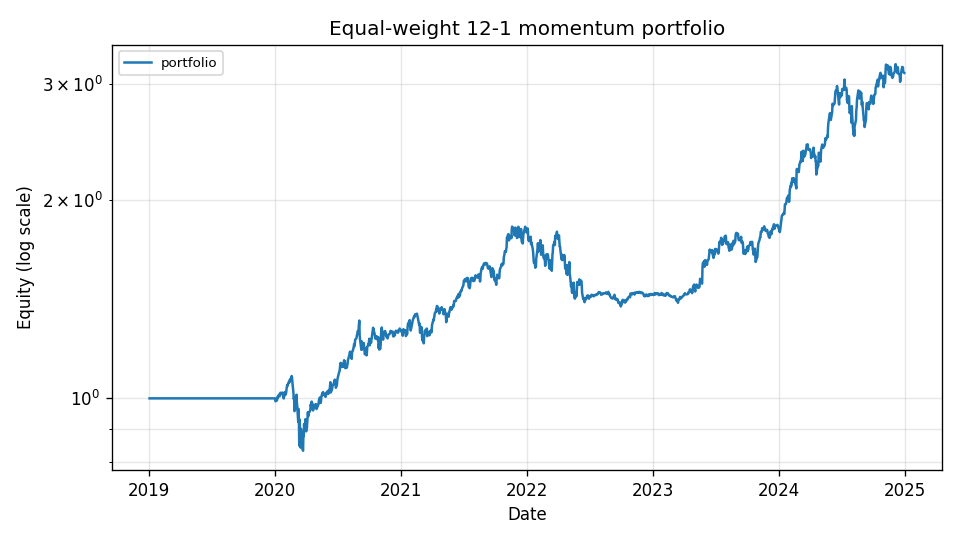
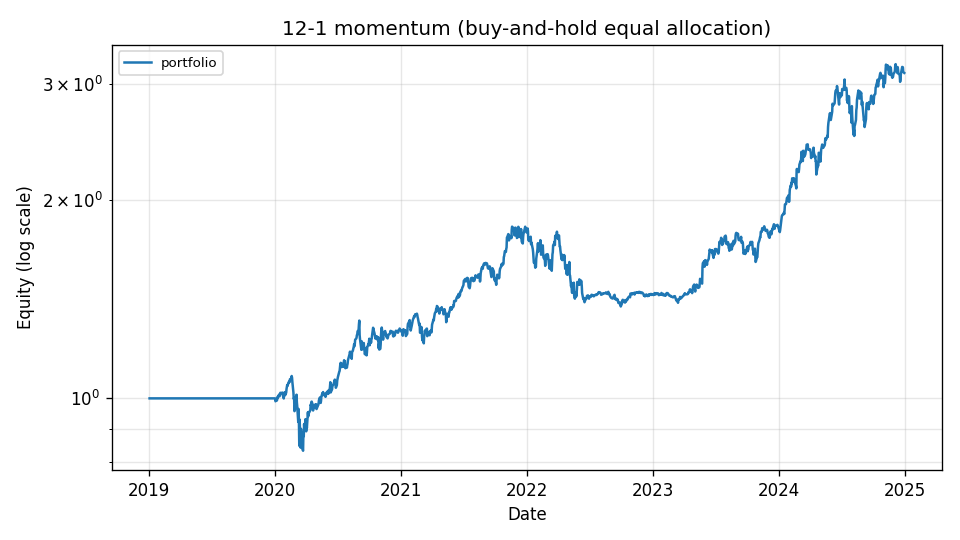
Final commit
Edit units of variance for correctness;
claim/code shift;
regenerated artifacts

Changed region(s): [[0.2812, 0.0296, 0.8125, 0.0889]]

diff --git a/src/quantlab/compute/montecarlo.py b/src/quantlab/compute/montecarlo.py
@@ -45,13 +45,19 @@ def _split_evenly(total: int, parts: int) -> list[int]:
 
 
 def _simulate_chunk(args: tuple[int, float, float, int, int]) -> np.ndarray:
-    """Worker: simulate a chunk of geometric Brownian motion terminal returns."""
+    """Worker: simulate a chunk of GBM terminal H-day log returns.
+
+    Log-return units are used (not simple returns) so the resulting VaR is
+    directly comparable to :func:`historical_simulation`, which works in the
+    same units. A reader who wants a wealth-loss percentage can convert with
+    ``simple_loss = 1 - exp(-log_loss)``.
+    """
     n_paths, mu, sigma, horizon, seed = args
     rng = np.random.default_rng(seed)
     # Terminal log return = sum of horizon iid Normal(mu - 0.5*sigma^2, sigma) per day.
     drift = (mu - 0.5 * sigma * sigma)
     increments = rng.normal(loc=drift, scale=sigma, size=(n_paths, horizon))
-    return np.exp(increments.sum(axis=1)) - 1.0
+    return increments.sum(axis=1)
 
 
 def monte_carlo_var(
@@ -64,6 +70,11 @@ def monte_carlo_var(
     seed: int = 0,
 ) -> VaRResult:
     """Estimate VaR / CVaR by parallel Monte Carlo on a GBM return process.
+
+    The returned VaR / CVaR are expressed as **log-return losses** (i.e.
+    the negative of the terminal H-day log return at the given quantile).
+    This matches :func:`historical_simulation`, so the two estimates can be
+    compared directly.
 
     Args:
         mu: Daily log-return mean.
@@ -105,6 +116,9 @@ def historical_simulation(
     horizon_days: int = 1,
 ) -> VaRResult:
     """Non-parametric VaR / CVaR from an empirical return distribution.
+
+    The returned VaR / CVaR are expressed as **log-return losses**, matching
+    :func:`monte_carlo_var`.
 
     Args:
         returns: One-period (typically daily) log returns.

diff --git a/src/quantlab/compute/backtest.py b/src/quantlab/compute/backtest.py
@@ -43,7 +43,13 @@ class TickerPnL:
 
 @dataclass
 class BacktestResult:
-    """Aggregate backtest output across all tickers."""
+    """Aggregate backtest output across all tickers.
+
+    ``portfolio_equity`` is the **mean of the per-ticker equity curves**,
+    i.e. the value of an initially equal-allocation buy-and-hold portfolio
+    across the per-ticker strategies (each ticker starts with $1, never
+    rebalanced). It is *not* a daily-rebalanced equal-weight portfolio.
+    """
 
     per_ticker: dict[str, TickerPnL]
     portfolio_equity: pd.Series

diff --git a/scripts/generate_reports.py b/scripts/generate_reports.py
@@ -122,7 +122,7 @@ def run(args: argparse.Namespace) -> None:
     metrics.to_csv(REPORTS / "backtest_metrics.csv", index=False)
 
     fig = plot_cumulative_returns(bt.portfolio_equity.rename("portfolio"),
-                                  title="Equal-weight 12-1 momentum portfolio")
+                                  title="12-1 momentum (buy-and-hold equal allocation)")
     fig.savefig(REPORTS / "cumulative_returns.png", dpi=120)
 
     fig = plot_drawdown(bt.portfolio_equity, title="Portfolio drawdown")

diff --git a/src/quantlab/data/yfinance_source.py b/src/quantlab/data/yfinance_source.py
@@ -37,7 +37,8 @@ class YFinanceSource(PriceSource):
         auto_adjust: If ``True``, request split/dividend-adjusted prices.
 
     Example:
-        >>> src = YFinanceSource(downloader=lambda **kw: _fake_yf_response())
+        >>> import pandas as pd
+        >>> src = YFinanceSource(downloader=lambda **kw: pd.DataFrame())
         >>> isinstance(src, YFinanceSource)
         True
     """

diff --git a/README.md b/README.md
@@ -13,7 +13,7 @@ This is the final-project deliverable for **ORIE 5270 — Big Data Technologies 
 
 ## Research question and headline result
 
-> *Does an equal-weight per-ticker 12-1 time-series momentum strategy on a basket of large-cap U.S. equities deliver positive risk-adjusted returns?*
+> *Does a per-ticker 12-1 time-series momentum strategy deliver positive risk-adjusted returns on a basket of large-cap U.S. equities?*
 
 Run on **real Yahoo Finance daily prices**, 10 large-cap tickers (AAPL, MSFT, GOOGL, AMZN, NVDA, JPM, XOM, JNJ, PG, WMT) over **2019-01-02 → 2024-12-30** (1,509 trading days, 15,090 rows). Reproduce with `python scripts/generate_reports.py --fetch`; the script falls back to a deterministic synthetic GBM panel when offline so tests and CI stay network-free.
 
@@ -23,14 +23,14 @@ Run on **real Yahoo Finance daily prices**, 10 large-cap tickers (AAPL, MSFT, GO
 | Average annualised return | **11.72 %** |
 | Average annualised volatility | **24.26 %** |
 | Average maximum drawdown | **−33.42 %** |
-| AAPL 10-day 99 % VaR — parametric Monte Carlo (20k paths) | **12.42 %** |
+| AAPL 10-day 99 % VaR — parametric Monte Carlo (20k paths) | **13.26 %** |
 | AAPL 10-day 99 % VaR — historical simulation (rolling 10-day returns) | **13.38 %** |
 | AAPL perfect-foresight per-share profit (DP, fee = $0.001/share) | **$1,441.69** |
 | Best per-ticker Sharpe in panel (NVDA) | **1.05** |
 
-Both VaR figures use the same 10-day horizon and 99 % confidence; the historical estimate is modestly higher than the parametric MC because the empirical 10-day-return distribution has fatter left-tails than the GBM fit.
+Both VaR figures use the same 10-day horizon and 99 % confidence and are expressed as log-return losses, so the comparison is unit-consistent. The historical estimate sits ~0.1 pp above the parametric MC, in line with empirical equity returns having marginally fatter left tails than the GBM fit assumes — well within sampling noise on 1499 observations.
 
-![Cumulative returns of the equal-weight 12-1 momentum portfolio](reports/cumulative_returns.png)
+![Cumulative returns of the 12-1 momentum portfolio (buy-and-hold equal allocation across tickers)](reports/cumulative_returns.png)
 
 | Drawdown (underwater) | Daily-return correlations |
 | :---: | :---: |
@@ -90,7 +90,7 @@ The point of the package is to demonstrate the engineering practices taught in O
 
 **Secondary source:** the S&P 500 constituent table on [Wikipedia](https://en.wikipedia.org/wiki/List_of_S%26P_500_companies), parsed with BeautifulSoup. Used to enumerate candidate tickers.
 
-The default config (`configs/default.yaml`) ships with 10 large-cap tickers (AAPL, MSFT, GOOGL, AMZN, NVDA, JPM, XOM, JNJ, PG, WMT) covering Jan 2015 – Dec 2024.
+The default config (`configs/default.yaml`) ships with 10 large-cap tickers (AAPL, MSFT, GOOGL, AMZN, NVDA, JPM, XOM, JNJ, PG, WMT) covering Jan 2019 – Dec 2024.
 
 This package is for educational and research use only. `yfinance` is not affiliated with Yahoo, and any use of Yahoo Finance data is subject to Yahoo's terms.
 
@@ -112,7 +112,7 @@ Verify the install:
 pytest --cov=quantlab
 ```
 
-You should see *109 passed* and *95% coverage*.
+You should see *119 passed* and *95% coverage* (114 unittest tests + 5 doctests inside `src/quantlab`).
 
 ---
 
@@ -190,7 +190,7 @@ These are the trade-offs the package makes deliberately. The full long-form vers
 
 ## Test coverage
 
-Measured by `pytest --cov=quantlab --cov-branch` on the committed test suite (118 tests, all passing offline). `cli.py` is included in the denominator; only `_logging.py` (a thin wrapper around stdlib `logging`) is omitted.
+Measured by `pytest --cov=quantlab --cov-branch` on the committed test suite (119 tests, all passing offline). `cli.py` is included in the denominator; only `_logging.py` (a thin wrapper around stdlib `logging`) is omitted. The CI workflow gates on `--cov-fail-under=85` to absorb small refactors without churning the gate; the figure above (95 %) is the current measurement.
 
 | Module | Line + branch | What's exercised |
 | --- | ---: | --- |

diff --git a/docs/tutorials/backtesting.rst b/docs/tutorials/backtesting.rst
@@ -3,8 +3,8 @@ Backtesting
 
 The :mod:`quantlab.compute.backtest` module runs a per-ticker strategy in
 parallel via ``multiprocessing.Pool.map``. The default reference strategy
-is 12-1 cross-sectional momentum (long when the prior 12 months excluding
-the most recent month delivered positive returns).
+is 12-1 *time-series* momentum (per ticker, long when that ticker's prior
+12 months excluding the most recent month delivered positive returns).
 
 CLI
 ---
